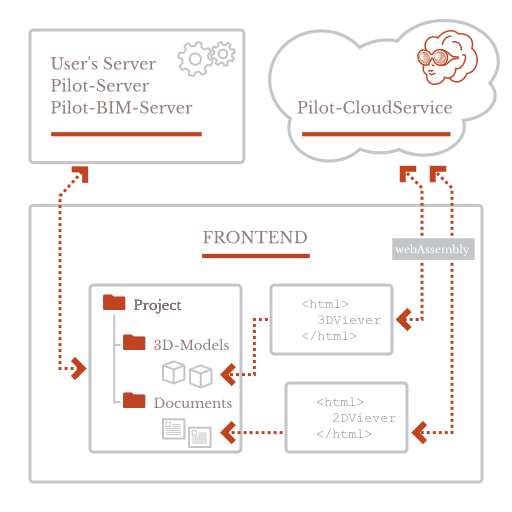
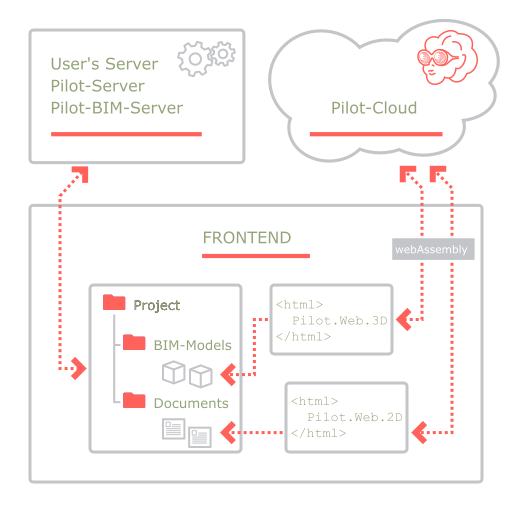
new sheme var1

diff --git a/static/custom.css b/static/custom.css
@@ -7,7 +7,7 @@
   
   --arrow-color: #95a37b;
 
-  --mark-color: #ffab00;
+  --mark-color: #ffab00; /*рыжий*/
 
   --button-background: #62cb97;
   --button-border-color: #4ec58a;
@@ -15,20 +15,20 @@
   --link-color: #95a37b;
   --link-color-visited: #c54e8a;
 
-  --code-background: #f5f6f8;
-  --code-accent-color: #e3e7eb;
-  --code-accent-color-lite: #eff1f3;
-  --code-font-color: #5f5f5f;
+  --code-background: #f5f6f8; /*бледно серый*/
+  --code-accent-color: #e3e7eb; /*светло серый*/
+  --code-accent-color-lite: #eff1f3; /*бледно-светло серый*/
+  --code-font-color: #5f5f5f; /*тёмно  серый*/
 
   --code-copy-background: #f5f6f8;
-  --code-copy-font-color: #6b7784;
-  --code-copy-border-color: #adb4bc;
-  --code-copy-success-color: #00c853;
+  --code-copy-font-color: #6b7784; /*тёмный серо-голубой*/
+  --code-copy-border-color: #adb4bc; /*светлый серо-голубой*/
+  --code-copy-success-color: #00c853; /*ярко зелёный*/
 
-  --accent-color: #e9ecef;
-  --accent-color-lite: #f8f9fa;
+  --accent-color: #e9ecef; /*цвет светло-серого фона*/
+  --accent-color-lite: #f8f9fa; /*почти белый*/
 
-  --control-icons: #b2bac1;
+  --control-icons: #b2bac1; /*очередной серый*/
 
   --footer-background: #95a37b;
   --footer-font-color: #ffffff;
@@ -112,6 +112,8 @@
   --footer-font-color: #ffffff;
   --footer-link-color: #d9e1b5;
   --footer-link-color-visited: #d9e1b5;
+  
+
 }
 @media (prefers-color-scheme: dark) {
   :root {
@@ -168,3 +170,6 @@
   align-content: center;
   flex-direction: column;
 }
+h1{color: #95a37b;}
+h2{color: #95a37b;}
+h3{color: #95a37b;}

diff --git a/content/viewer-basics/2.initialization.md b/content/viewer-basics/2.initialization.md
@@ -35,7 +35,7 @@ PilotWeb2D.Initializer(options, () => {
 Функцию инициализации достаточно вызвать один раз.
 {{< /hint >}}
 
-#### Пример создания экземпляров компонентов
+### Пример создания экземпляров компонентов
 
 Как только функция обратного вызова инициализации `Initializer` была вызвана, мы можем создать экземпляр `GuiViewer3D`.
 
@@ -59,7 +59,7 @@ PilotWeb2D.Initializer(options, () => {
   viewer.start();
 ```
 
-#### Освобождение ресурсов
+### Освобождение ресурсов
 
 Если компоненты больше не нужны на странице, следует завершить их работу:
 
